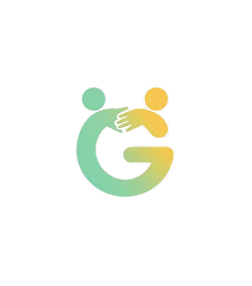
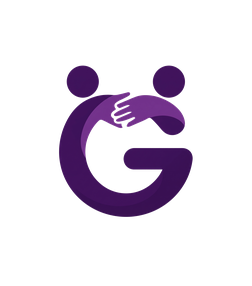
20260501:1510:채팅 및 알람, 로고 변경

Changed region(s): [[0.2222, 0.2238, 0.7778, 0.7832]]

diff --git a/app/(tabs)/chat.tsx b/app/(tabs)/chat.tsx
@@ -208,15 +208,6 @@ export default function ChatTab() {
     [windowWidth],
   );
 
-  const handleEndReachedForKind = useCallback(
-    (kind: ChatKind) => {
-      if (chatKind !== kind) return;
-      if (kind === 'social' && hasMoreSocialRooms) void fetchNextSocialRoomsPage();
-      else if (kind === 'gather' && hasMoreMeetingsFeed) void fetchNextMeetingsFeedPageGuarded();
-    },
-    [chatKind, hasMoreSocialRooms, hasMoreMeetingsFeed, fetchNextSocialRoomsPage, fetchNextMeetingsFeedPageGuarded],
-  );
-
   useEffect(() => {
     const k = chatKindRef.current;
     const idx = k === 'gather' ? 0 : 1;
@@ -296,6 +287,15 @@ export default function ChatTab() {
     isFetchingNextPage: isFetchingMoreSocialRooms,
     isInitialLoading: socialRoomsInitialLoading,
   } = useChatRoomsInfiniteQuery(userId, signedIn);
+
+  const handleEndReachedForKind = useCallback(
+    (kind: ChatKind) => {
+      if (chatKind !== kind) return;
+      if (kind === 'social' && hasMoreSocialRooms) void fetchNextSocialRoomsPage();
+      else if (kind === 'gather' && hasMoreMeetingsFeed) void fetchNextMeetingsFeedPageGuarded();
+    },
+    [chatKind, hasMoreSocialRooms, hasMoreMeetingsFeed, fetchNextSocialRoomsPage, fetchNextMeetingsFeedPageGuarded],
+  );
 
   /** 친구 탭: `social_` 1:1 DM만 표시(그룹·기타 룸 제외) */
   const socialFriendDmRooms = useMemo(

diff --git a/app/meeting-chat/[meetingId]/index.tsx b/app/meeting-chat/[meetingId]/index.tsx
@@ -36,7 +36,6 @@ import { meetingChatBodyStyles } from '@/components/chat/meeting-chat-body-style
 import type { MeetingChatQuickActionDef } from '@/components/chat/meeting-chat-quick-action-row';
 import { meetingImageViewerMeta, profileForSender } from '@/components/chat/meeting-chat-ui-helpers';
 import { useMeetingChatRenderItem } from '@/components/chat/use-meeting-chat-render-item';
-import { InAppAlarmsBellButton } from '@/components/in-app-alarms/InAppAlarmsBellButton';
 import { MeetingPeerProfileModal } from '@/components/meeting/MeetingPeerProfileModal';
 import { GinitTheme } from '@/constants/ginit-theme';
 import { useInAppAlarms } from '@/src/context/InAppAlarmsContext';
@@ -1078,7 +1077,6 @@ export default function MeetingChatRoomScreen() {
                 style={styles.searchIconWrap}>
                 <GinitSymbolicIcon name="search-outline" size={22} color="#0f172a" />
               </Pressable>
-              <InAppAlarmsBellButton />
               <Pressable
                 onPress={() => router.push(`/meeting-chat/${meetingId}/settings`)}
                 accessibilityRole="button"
